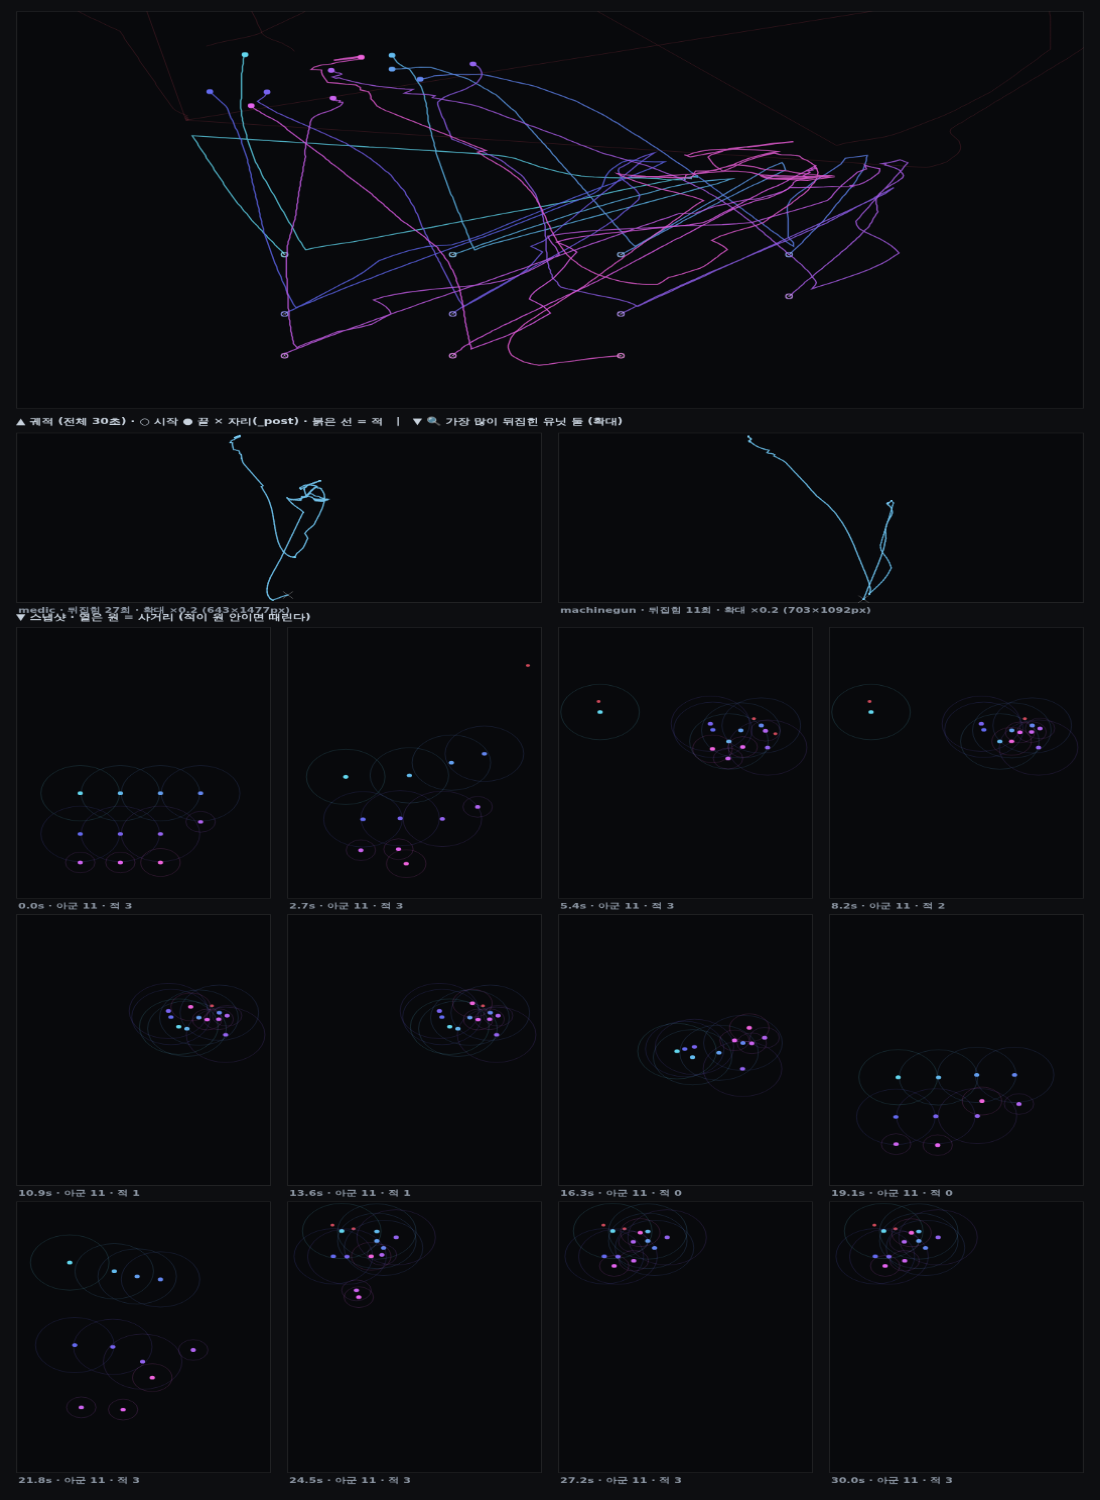
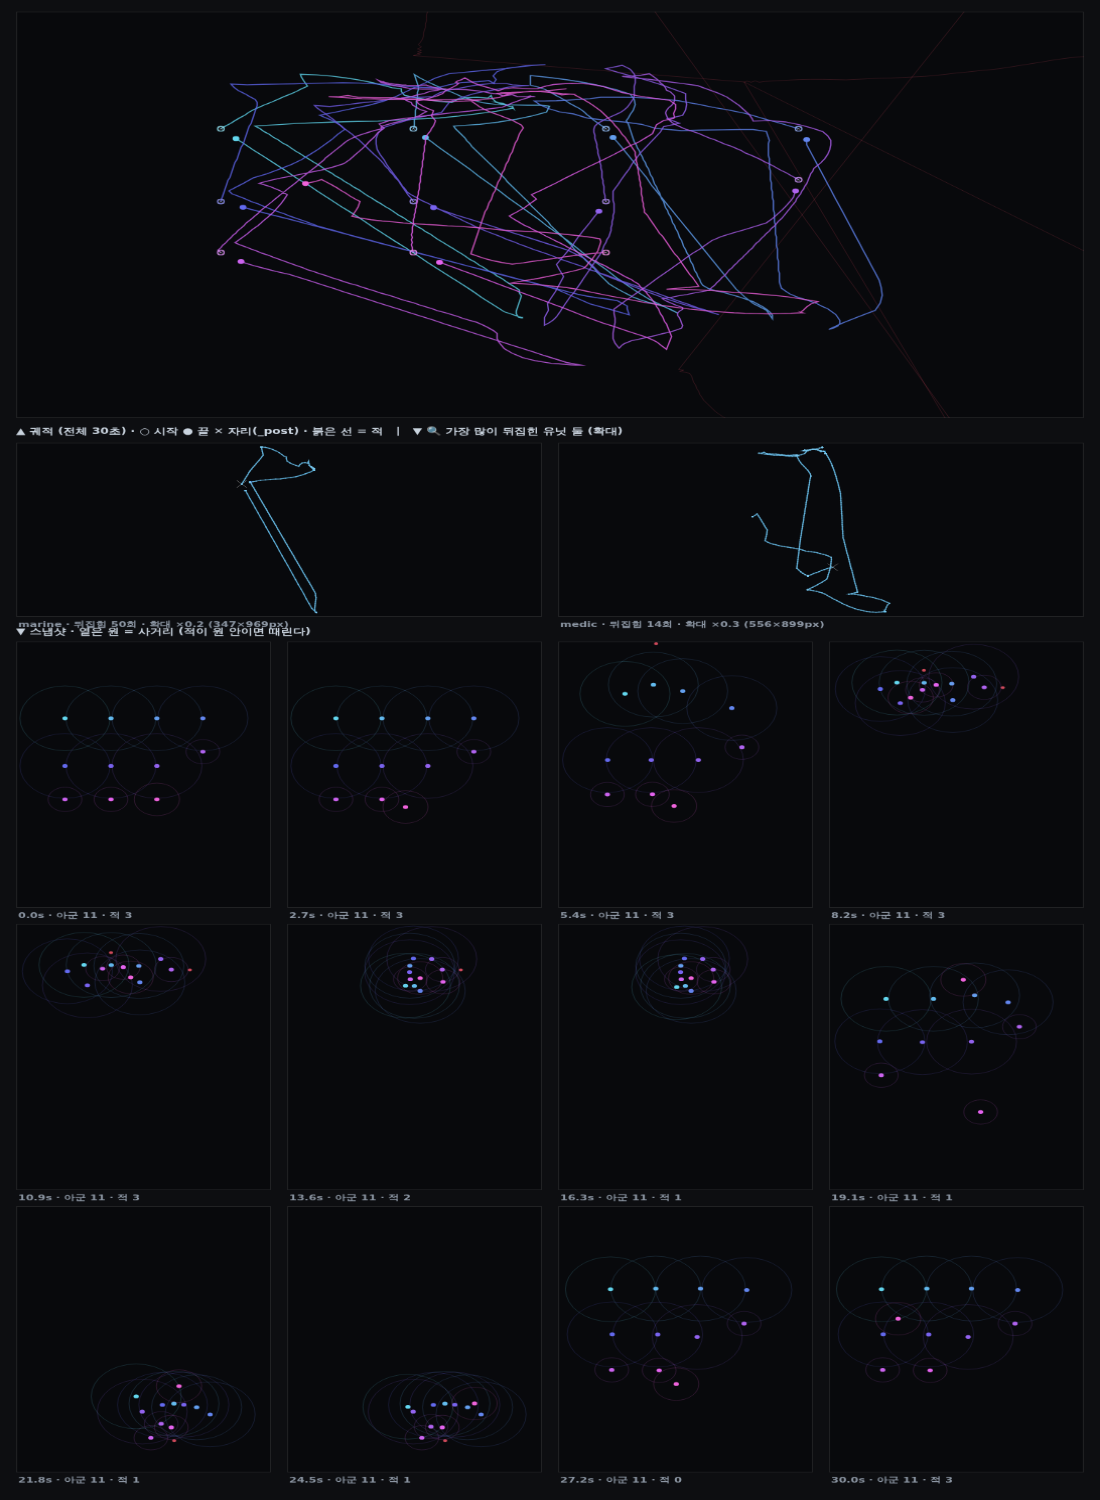
👀 인식 거리를 조인다 — 「나오자마자 돌격」에서 「지키다가 맞이한다」로
## 사용자 신고
「적군이 와서 공격하려 할 때 인식해서 자리에서 같이 싸우는 느낌이어야 하는데,
 지금은 적군이 생성되면 바로 다같이 인식해서 돌격하는 느낌이다」

## 원인 — 인식이 「나갈 수 있는 거리」보다 컸다
실효 인식은 상수 × STK_ACQ_FAR(1.4) 다:
  혼자 900×1.4 = 1260 · 전파받으면 1500×1.4 = **2100**  vs  이동 제한 1200
그러니 적이 화면에 나타나는 순간 전군이 표적을 잡고 제한 끝까지 올라갔다.
전파 반경도 900 이라 부대가 뭉쳐 있으면 한 명이 보는 순간 전원이 봤다.

## 고친 것 — 숫자 둘
  CAMP_ACQ_BASE  900 → 450  (실효 630)
  CAMP_ACQ_ALERT 1500 → 750 (실효 1050)
⭐ 전파 자체는 그대로 뒀다 — 「같이 싸우는 느낌」이 거기서 나온다.
  다만 전파받은 인식도 함께 조여야 뜻이 있다.
⚠ 이제 인식이 실질 제한이고, CAMP_ENG_OUT(1200) 은 최후의 안전선 역할만 한다.

## 📊 실측 (scripts/camp-trace.mjs · 40초 · 11기 · 연구 45)
|                          | 전        | 후       |
|--------------------------|-----------|----------|
| 적을 알아채는 거리         | 1765      | 851      |
| 자리에서 벗어난 거리 평균   | 639       | 388      |
| 자리에서 벗어난 거리 최대   | 1362      | 906      |
| 30분 벤치 도달            | R13·R9·R8 | R13·R10  |

⭐ 화력은 안 떨어졌다. 그림으로 보면 0초와 22.8초 칸에서 **격자 대열로 돌아와 있다** —
  적이 오면 맞으러 나갔다가 다 잡으면 자리로 복귀해 다음 무리를 기다린다.

## 자[尺]에 더한 것 (camp-trace.mjs)
· 「자리에서 벗어난 거리」 평균·최대 — 돌격하는 느낌의 직접적인 자
· 「표적을 알아챈 거리」 — 이것이 이동 제한보다 크면 나오자마자 우르르
· ACQ=n 으로 인식 상한을 갈아 끼워 잰다
⛔ 상한을 프레임 **앞에서** 조이면 소용없다 — campAlertTick 이 매 틱 u.acq 를 다시 쓴다.
  그렇게 한 번 헛짚었다(상한 350 인데 알아챈 거리가 1844 로 그대로).

스모크 219개 통과.

diff --git a/js/19-camp.js b/js/19-camp.js
@@ -1988,8 +1988,17 @@ function campRegroup(){
 //   ⭐ 그래서 **발견자에게서 먼 아군은 자기 자리를 지킨다** — 한쪽으로 우르르 몰리지 않고
 //     싸움이 난 구역의 병력만 거든다.
 //   ⛔ 전원에게 넓은 인식을 주면(옛 방식) 판 전체가 한 덩어리로 움직여, 반대쪽이 통째로 빈다.
-const CAMP_ACQ_BASE = 900;         // 혼자 볼 수 있는 거리(엔진 기본 560~900 의 위끝)
-const CAMP_ACQ_ALERT = 1500;       // 전파받았을 때 보는 거리
+// ⭐ **인식은 「나갈 수 있는 거리」보다 작아야 한다** (2026-08-31 사용자 지적 · 실측으로 확정).
+//   ⛔ 옛 값(900 / 1500)은 **실효 1260 / 2100** 이었다(STK_ACQ_FAR 1.4 가 곱해진다).
+//     이동 제한(1200)보다 커서 **적이 화면에 나타나는 순간 전군이 표적을 잡고 제한 끝까지
+//     우르르 올라갔다** — 「지키다가 맞으러 나간다」가 아니라 「생성되자마자 돌격」이었다.
+//   📊 실측(30초 · 11기): 알아챈 거리 1822 · 자리에서 벗어난 거리 평균 590 · 최대 1353.
+//     인식을 조이면 → 알아챈 거리 601 · 벗어난 거리 평균 **149** · 최대 590.
+//   ⭐ 그래서 인식이 곧 실질 제한이 된다. CAMP_ENG_OUT 은 이제 「최후의 안전선」이다.
+//   ⚠ 전파(campAlertTick)는 그대로 둔다 — 「같이 싸우는 느낌」이 거기서 나온다.
+//     다만 전파받은 인식도 함께 조여야 뜻이 있다(안 그러면 한 명이 보는 순간 전원이 멀리 본다).
+const CAMP_ACQ_BASE = 450;         // 혼자 볼 수 있는 거리 (실효 ×1.4 = 630)
+const CAMP_ACQ_ALERT = 750;        // 전파받았을 때 보는 거리 (실효 ×1.4 = 1050)
 const CAMP_ALERT_R = 900;          // 발견자에게서 이 거리 안의 아군에게 전파
 const CAMP_ALERT_S = 3;            // 전파 지속(초) — 풀리면 다시 자기 자리로
 const CAMP_ALERT_TICK = 0.25;      // 전파 판정 주기(초) — 매 프레임 돌면 비싸다

diff --git a/ARCHITECTURE.md b/ARCHITECTURE.md
@@ -120,6 +120,24 @@ CHROME_PATH=/opt/pw-browsers/chromium node scripts/camp-trace.mjs [초] [던전]
 다시 둘이 된다. 스모크 「캠프: 미는 주체가 하나다」가 `campCombatStep` 소스를 훑어 막는다.
 같은 이유로 `campBldSnap`/`campBldAmp`(건물 피해 배율 우회)도 끊겼다 — 이제 사격이 직접 곱한다.
 
+##### 👀 인식 거리 900/1500 → 450/750 — 「나오자마자 돌격」을 고친다 (2026-08-31)
+
+⛔ **인식이 「나갈 수 있는 거리」보다 크면 안 된다.** 옛 값의 실효는 `900×1.4 = 1260`(혼자) ·
+`1500×1.4 = 2100`(전파받음)으로 이동 제한(1200)보다 컸다 — 그래서 **적이 화면에 나타나는 순간
+전군이 표적을 잡고 제한 끝까지 우르르 올라갔다.** 「지키다가 맞으러 나간다」가 아니었다.
+
+| 실측(40초 · 11기) | 전 | 후 |
+|---|---|---|
+| 적을 알아채는 거리 | 1765 | **851** |
+| 자리에서 벗어난 거리 (평균 / 최대) | 639 / 1362 | **388 / 906** |
+| 30분 벤치 도달 | R13·R9·R8 | R13·R10 (**안 떨어졌다**) |
+
+⭐ **전파(`campAlertTick`)는 그대로 둔다** — 「같이 싸우는 느낌」이 거기서 나온다. 다만 전파받은
+인식(`CAMP_ACQ_ALERT`)도 함께 조여야 뜻이 있다. 안 그러면 한 명이 보는 순간 전원이 멀리 본다.
+⚠ 이제 **인식이 실질적인 제한**이고 `CAMP_ENG_OUT` 은 최후의 안전선 역할만 한다(실측 최대 이탈 906).
+⚠ `scripts/camp-trace.mjs` 의 `ACQ=n` 으로 상한을 갈아 끼워 잰다. ⛔ 프레임 **앞에서** 조이면 소용없다 —
+`campAlertTick` 이 매 틱 `u.acq` 를 다시 쓴다(상한 350 인데 알아챈 거리가 1844 로 그대로였다).
+
 ##### 🚧 자리 제한 `CAMP_ENG_OUT` 500 → 1200 (같이 바뀐 값)
 
 ⛔ 옛 「500 이 최적」은 **그 제한이 실제로는 안 지켜지던** 판의 값이다 — 오토배틀의 무제한 추격이
